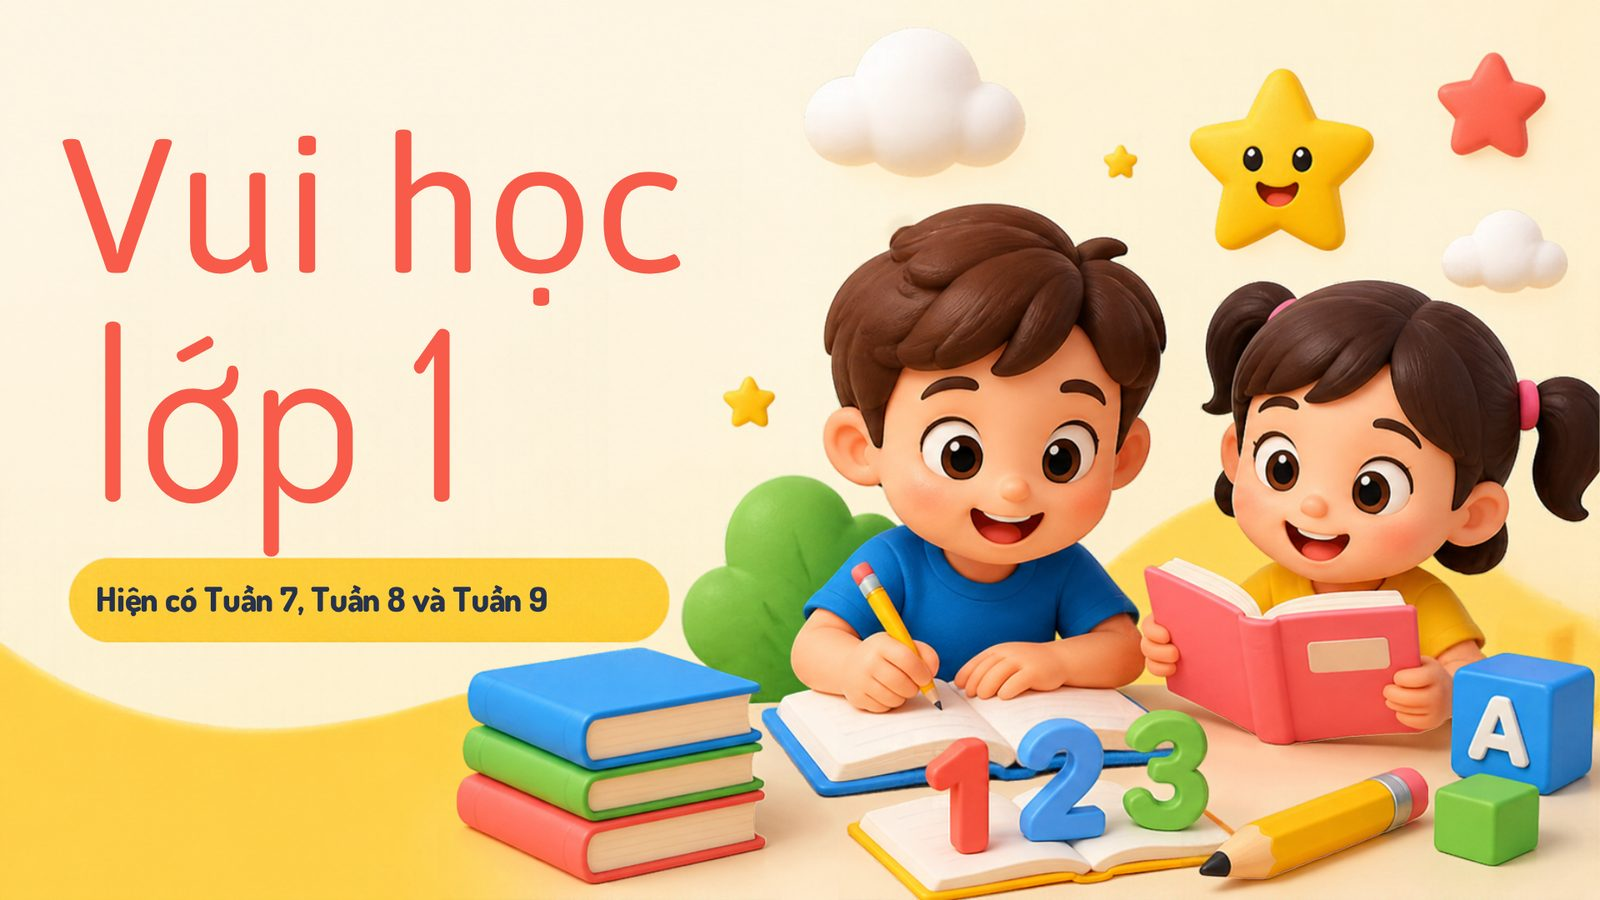
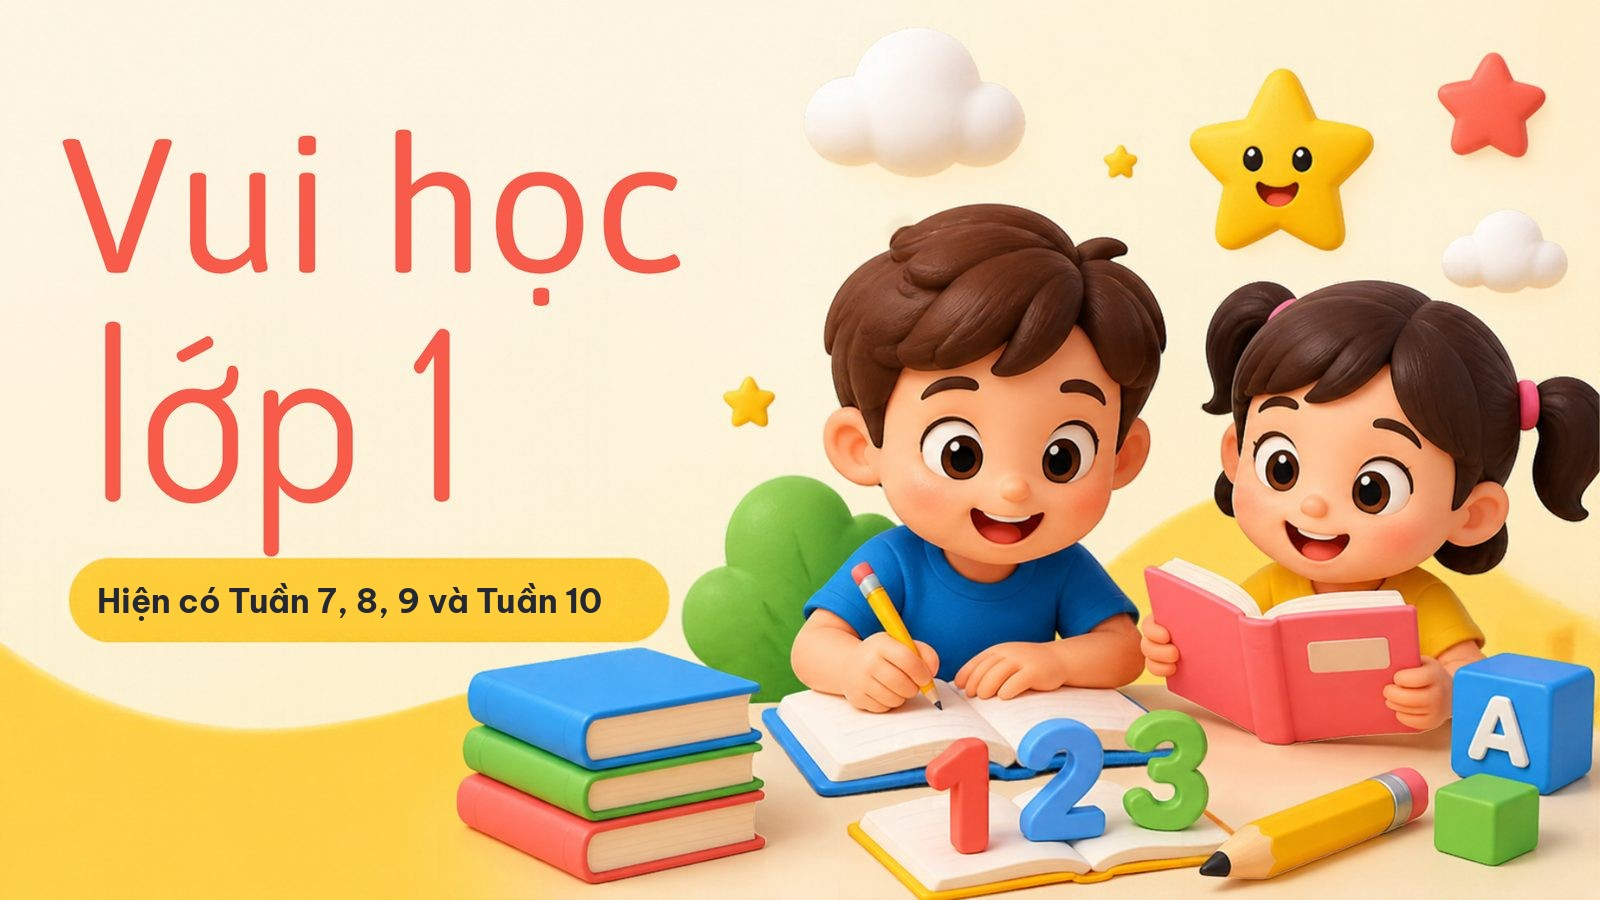
Lớp 1: add Tuần 10 Tiếng Việt lesson 'Cây gấc đỏ' (vần, đọc bài, nối, chính tả, nghe – viết), deep link #cay-gac-do, update hero to Tuần 10

Changed region(s): [[0.0625, 0.6533, 0.375, 0.6844]]

diff --git a/lop1/index.html b/lop1/index.html
@@ -92,6 +92,9 @@ rect:'<svg viewBox="0 0 200 58" width="200"><rect x="4" y="4" width="192" height
 tri:'<svg viewBox="0 0 120 100" width="140"><path d="M60 6L114 94H6z" fill="#FFD93D" stroke="#b38f00" stroke-width="4"/><line x1="33" y1="50" x2="87" y2="50" stroke="#b38f00" stroke-width="4"/></svg>',
 book:'<svg viewBox="0 0 60 60"><path d="M6 14q12-6 24 2v36q-12-8-24-2z" fill="#fff"/><path d="M54 14q-12-6-24 2v36q12-8 24-2z" fill="#f3f0ff"/><path d="M30 16v36" stroke="#9B59B6" stroke-width="2"/></svg>',
 house:'<svg viewBox="0 0 60 60"><path d="M8 28L30 8l22 20" fill="#FF6B6B"/><rect x="14" y="28" width="32" height="24" fill="#FFF6E5"/><rect x="26" y="36" width="9" height="16" fill="#9B59B6"/><path d="M48 52V20" stroke="#6BCB77" stroke-width="4"/><circle cx="48" cy="16" r="6" fill="#6BCB77"/></svg>',
+gac:'<svg viewBox="0 0 60 60"><path d="M30 12c-4-6 2-10 6-8" stroke="#7a4a1e" stroke-width="3" fill="none"/><ellipse cx="40" cy="8" rx="8" ry="4" fill="#6BCB77"/><ellipse cx="30" cy="35" rx="17" ry="22" fill="#E8412C"/><g fill="#B8261A"><circle cx="22" cy="24" r="2.2"/><circle cx="32" cy="20" r="2.2"/><circle cx="38" cy="30" r="2.2"/><circle cx="24" cy="36" r="2.2"/><circle cx="34" cy="42" r="2.2"/><circle cx="26" cy="49" r="2.2"/><circle cx="40" cy="44" r="2"/><circle cx="20" cy="45" r="2"/></g><ellipse cx="23" cy="28" rx="3" ry="6" fill="#fff" opacity=".35"/></svg>',
+inkpot:'<svg viewBox="0 0 60 60"><rect x="22" y="10" width="16" height="8" rx="2" fill="#2d2a4a"/><path d="M14 22q0-4 4-4h24q4 0 4 4v26q0 6-6 6H20q-6 0-6-6z" fill="#cfe8ff" stroke="#4D96FF" stroke-width="3"/><path d="M17 32h26v16q0 3-3 3H20q-3 0-3-3z" fill="#2B3A9C"/><path d="M46 6l-14 30" stroke="#9B59B6" stroke-width="3"/><path d="M32 36l-2 5 4-3z" fill="#2d2a4a"/></svg>',
+digger:'<svg viewBox="0 0 60 60"><rect x="6" y="44" width="34" height="9" rx="4.5" fill="#2d2a4a"/><circle cx="12" cy="48.5" r="3" fill="#888"/><circle cx="23" cy="48.5" r="3" fill="#888"/><circle cx="34" cy="48.5" r="3" fill="#888"/><rect x="8" y="30" width="28" height="13" rx="3" fill="#FFB020"/><rect x="12" y="20" width="13" height="11" rx="2" fill="#FFB020"/><rect x="15" y="22" width="8" height="7" fill="#cfe8ff"/><path d="M34 32L46 14l8 12" stroke="#E89400" stroke-width="5" fill="none" stroke-linecap="round" stroke-linejoin="round"/><path d="M50 26l8 2-3 10-9-4z" fill="#7a5a2e"/></svg>',
 mountain:'<svg viewBox="0 0 60 60"><path d="M2 52L22 18l12 18 8-10 16 26z" fill="#6BCB77"/><path d="M22 18l-6 10h12z" fill="#fff"/><path d="M8 18a6 6 0 0 1 6-8 8 8 0 0 1 14 2 5 5 0 0 1 0 8H10z" fill="#fff" opacity=".9"/></svg>'
 };
 const bear='<svg viewBox="0 0 120 120" width="120"><circle cx="30" cy="30" r="16" fill="#C68B59"/><circle cx="90" cy="30" r="16" fill="#C68B59"/><circle cx="30" cy="30" r="8" fill="#FFB6C8"/><circle cx="90" cy="30" r="8" fill="#FFB6C8"/><circle cx="60" cy="64" r="44" fill="#D9A273"/><ellipse cx="60" cy="80" rx="20" ry="15" fill="#F5DEC4"/><circle cx="44" cy="58" r="5" fill="#2d2a4a"/><circle cx="76" cy="58" r="5" fill="#2d2a4a"/><ellipse cx="60" cy="74" rx="7" ry="5" fill="#2d2a4a"/><path d="M52 84q8 7 16 0" stroke="#2d2a4a" stroke-width="3" fill="none"/><circle cx="34" cy="74" r="6" fill="#FFB6C8" opacity=".7"/><circle cx="86" cy="74" r="6" fill="#FFB6C8" opacity=".7"/></svg>';
@@ -167,6 +170,26 @@ h+=`<div class="card sec"><h2>3. Nối hình với từ ${spk('Nối hình với
 h+=`<div class="card sec"><h2>4. Điền vần ${spk('Chọn vần đúng')}</h2>`;
 [['shrimp','t…','ôm','ơm','tôm'],['sparrow','ch…','im','em','chim'],['elephant','v…','oi','ôi','voi'],['cloud','m…','ây','ay','mây']].forEach(([k,w,a,b,full])=>{h+=`<div class="row"><span class="ill">${S[k]}</span><span class="eq">${spk(full)} ${w}</span>${spk(a)}${spk(b)}${choice([a,b].sort(),a)}</div>`});
 return h+'</div>'}},
+{t:'Tiếng Việt: Cây gấc đỏ',sub:'Đọc vần, đọc bài, nối, chính tả, nghe – viết',c:'#e04848',tag:'Tuần 10',id:'cay-gac-do',ic:S.gac,build(){
+const sents=['Nhà Cúc có cây gấc quả đỏ ối.','Mỗi khi tới mùa gấc, mẹ Cúc hay nấu xôi gấc cho cả nhà.','Trẻ con hay qua nhà chỉ trỏ lên cây gấc.','Thế là Cúc nhờ bố hái cho mỗi đứa vài quả gấc đem về.','Bọn trẻ con rất vui vì có quà là quả gấc.'];
+let h=`<div class="card sec"><h2>Luyện đọc vần ${spk('Luyện đọc vần')}</h2><div class="row">`+['ac','ăc','âc','oc','ôc','uc','ưc','at','ăt','ât','ot','ôt','ơt'].map(v=>`<button class="chip" data-say="${v}">${v}</button>`).join('')+`</div><h2 style="font-size:24px;margin-top:14px">Đọc từ ${spk('Đọc từ. Nắn nót. Sữa bột. Tắc kè. Nhắc nhở. Gốc cây. Vất vả.')}</h2><div class="row">`+['nắn nót','sữa bột','tắc kè','nhắc nhở','gốc cây','vất vả'].map(v=>`<button class="chip" style="border-color:var(--gr)" data-say="${v}">${v}</button>`).join('')+`</div><p style="font-size:17px;opacity:.7">Chạm vào vần, vào từ để nghe.</p></div>`;
+h+=`<div class="card"><h2>📖 Cây gấc đỏ ${spk('Cây gấc đỏ. '+sents.join(' '))}</h2><p class="pass">`+sents.map(s=>`<span data-say="${s}">${s}</span>`).join(' ')+`</p><p style="font-size:17px;opacity:.7">Chạm vào câu để nghe.</p></div>`;
+h+=`<div class="card sec"><h2>1. Nối ${spk('Nối cho đúng với bài đọc')}</h2>`+matchBlock(['bố','mẹ Cúc','cây gấc'],['quả đỏ ối.','hái cho mỗi đứa vài quả gấc.','hay nấu xôi gấc cho cả nhà.'],{'bố':'hái cho mỗi đứa vài quả gấc.','mẹ Cúc':'hay nấu xôi gấc cho cả nhà.','cây gấc':'quả đỏ ối.'})+'</div>';
+h+=`<div class="card sec"><h2>2. Mẹ Cúc nấu gì? ${spk('Mẹ Cúc nấu gì?')}</h2><div class="row"><input id="gq2" style="flex:1;min-width:220px;text-align:left" placeholder="Em viết câu trả lời..."><button class="big" style="background:var(--gr)" id="gq2b">Kiểm tra</button></div><p>Hoặc chạm chọn:</p><div id="gq2c">`+['canh cá','xôi gấc','chè đỗ'].map(o=>spk(o)).join(' ')+choice(['canh cá','xôi gấc','chè đỗ'],'xôi gấc')+`</div></div>`;
+h+=`<div class="card sec"><h2>3. Chọn từ viết đúng chính tả ${spk('Nhìn tranh, chọn từ viết đúng chính tả')}</h2>`;
+const emo=e=>`<span style="font-size:72px;line-height:1">${e}</span>`;
+[[emo('🏋'),['lực sĩ','nực sĩ'],'lực sĩ'],[emo('🤸'),['thế dục','thể dục'],'thể dục'],[S.inkpot,['lọ mực','lọ múc'],'lọ mực'],[S.digger,['máy xú','máy xúc'],'máy xúc']].forEach(([ic,opts,a])=>{h+=`<div class="row" style="background:#fff5f3;border-radius:20px;padding:10px"><span class="ill" style="width:100px;display:inline-flex;justify-content:center">${ic}</span>${spk(a)}${choice(opts,a)}</div>`});
+const nv=['Cây gấc đỏ.','Nhà Cúc có cây gấc','quả đỏ ối.','Mỗi khi tới mùa gấc,','mẹ Cúc hay nấu xôi gấc','cho cả nhà.','Trẻ con hay qua nhà','chỉ trỏ lên cây gấc.'];
+h+=`</div><div class="card sec"><h2>4. Nghe – viết ${spk('Nghe viết')}</h2><p>Phụ huynh đọc cho bé viết vào vở tựa bài <b>“Cây gấc đỏ”</b> và đoạn từ đầu đến <b>“chỉ trỏ lên cây gấc.”</b> Hoặc bấm nút để máy đọc chậm từng cụm từ.</p><p class="pass" id="gnv">`+nv.map(s=>`<span>${s}</span>`).join(' ')+`</p><div class="row"><button class="big" id="gnvb" style="background:var(--pu)">▶ Nghe đọc chậm</button><button class="chip" id="gnvs">⏹ Dừng</button></div><textarea style="width:100%;min-height:120px;font-size:24px;font-family:inherit;border:4px solid #e3d9f5;border-radius:18px;padding:10px" placeholder="Em viết ở đây (không bắt buộc), nhớ viết vào vở nhé!"></textarea></div>`;
+return h},after(){
+const q=document.getElementById('gq2'),b=document.getElementById('gq2b');
+const flat=v=>norm(v).normalize('NFD').replace(/[\u0300-\u036f]/g,'').replace(/đ/g,'d');
+b.onclick=()=>{const v=flat(q.value);if(/xoi\s*gac/.test(v)){q.classList.remove('bad');q.classList.add('ok');const g=document.querySelector('#gq2c [data-grp]');if(g&&!g.dataset.d){g.dataset.d=1;const ok=g.querySelector('[data-ok="1"]');if(ok)ok.classList.add('done');good();mark()}else good()}else{q.classList.add('bad');bad();setTimeout(()=>q.classList.remove('bad'),900)}};
+q.onkeydown=e=>{if(e.key==='Enter')b.click()};
+let run=0;
+document.getElementById('gnvs').onclick=()=>{run++;if('speechSynthesis'in window)speechSynthesis.cancel();document.querySelectorAll('#gnv span').forEach(s=>s.classList.remove('hl'))};
+document.getElementById('gnvb').onclick=()=>{const my=++run;const sp=[...document.querySelectorAll('#gnv span')];let i=0;const nx=()=>{if(my!==run)return;sp.forEach(s=>s.classList.remove('hl'));if(i>=sp.length)return;sp[i].classList.add('hl');say(sp[i].textContent,0.6,()=>{i++;setTimeout(nx,2500)})};nx()};
+}},
 {t:'Tiếng Việt: Chữ Ph, Qu, V, X, Y',sub:'Tuần 7 – Luyện đọc chữ',c:'#7c4dff',tag:'Tuần 7',ic:'<div style="font-size:64px;line-height:1;text-align:center">🔤</div>',build(){
 let h=`<div class="card sec"><h2>1. Luyện đọc chữ ${spk('Luyện đọc chữ. Phờ, quờ, vờ, xờ, i dài')}</h2><div class="grid" style="grid-template-columns:repeat(auto-fit,minmax(140px,1fr))">`;
 [['Ph','phờ'],['ph','phờ'],['Qu','quờ'],['qu','quờ'],['V','vờ'],['v','vờ'],['X','xờ'],['x','xờ'],['Y','i dài'],['y','i dài']].forEach(([ch,name])=>{h+=`<div class="eq" style="text-align:center;font-size:42px">${spk(name+'. '+ch)} ${ch}</div>`});
@@ -194,7 +217,7 @@ function inferMon(l){return /^Toán/.test(l.t)?'toan':'tv'}
 function cardHTML(l,i){return `<div class="lc" style="background:${l.c}" data-go="${i}">${spk((l.tag||('Bài '+(i+1)))+'. '+l.t)}<span class="ill" style="background:rgba(255,255,255,.85);border-radius:24px;width:110px;padding:10px">${l.ic}</span><div><div style="opacity:.9">${l.tag||('Bài '+(i+1))}</div><h3>${l.t}</h3><div style="font-size:18px">${l.sub}</div></div></div>`}
 function home(){speakEn=false;location.hash='';
 const locked=sessionStorage.getItem('vh1en')!=='1';
-app.innerHTML=`<div class="hero"><img src="ui/hero.jpg" alt="Vui học lớp 1. Hiện có Tuần 7, Tuần 8 và Tuần 9.">${spk('Chào em! Hiện có Tuần 7, Tuần 8 và Tuần 9. Bé chọn môn Toán, Tiếng Việt, hoặc English Ms. Huyền nhé!')}</div>
+app.innerHTML=`<div class="hero"><img src="ui/hero.jpg?v=10" alt="Vui học lớp 1. Hiện có Tuần 7, Tuần 8, Tuần 9 và Tuần 10.">${spk('Chào em! Hiện có Tuần 7, Tuần 8, Tuần 9 và Tuần 10. Bé chọn môn Toán, Tiếng Việt, hoặc English Ms. Huyền nhé!')}</div>
 <div class="grid" style="margin-top:22px">
 <div class="lc vis" data-go="toan" role="button" aria-label="Toán. Ôn từng tuần, có hình và chạm để nghe">${spk('Toán')}<img src="ui/toan.jpg" alt=""></div>
 <div class="lc vis" data-go="tv" role="button" aria-label="Tiếng Việt. Luyện chữ, luyện vần và đọc bài">${spk('Tiếng Việt')}<img src="ui/tv.jpg" alt=""></div>
@@ -206,12 +229,14 @@ const title=mon==='toan'?'Toán':'Tiếng Việt';
 const items=L.map((l,i)=>({l,i})).filter(x=>inferMon(x.l)===mon);
 const w7=items.filter(x=>x.l.tag==='Tuần 7');
 const extra=items.filter(x=>x.l.tag==='Tuần 9');
+const w10=items.filter(x=>x.l.tag==='Tuần 10');
 const w8=mon==='toan'?{t:'Số và phép cộng trong phạm vi 10',s:'Đếm, tính, so sánh và thử thách 10 câu'}:{t:'Vần an, ăn, ân đến am, ăm, âm',s:'Luyện vần, đọc từ, nghe chọn, điền từ'};
 const w8bg=mon==='toan'?'#ff9f43':'#7c4dff';
 app.innerHTML=`<div class="top"><button class="back" id="bk">⬅ Về nhà</button><h1 style="color:${mon==='toan'?'var(--co)':'var(--gr)'};margin:0">${title} ${spk(title)}</h1></div>
 <h2 style="margin:24px 0 12px;font-size:26px">📘 Tuần 7</h2><div class="grid">`+w7.map(x=>cardHTML(x.l,x.i)).join('')+`</div>
 <h2 style="margin:24px 0 12px;font-size:26px">📗 Tuần 8</h2><div class="grid"><div class="lc" style="background:${w8bg}" id="go8">${spk('Tuần 8. '+w8.t)}<span class="ill" style="background:rgba(255,255,255,.85);border-radius:24px;width:110px;padding:10px;display:flex;align-items:center;justify-content:center;font-size:64px">📗</span><div><div style="opacity:.9">Tuần 8</div><h3>${w8.t}</h3><div style="font-size:18px">${w8.s}</div></div></div></div>
-`+(extra.length?`<h2 style="margin:24px 0 12px;font-size:26px">📙 Tuần 9</h2><div class="grid">`+extra.map(x=>cardHTML(x.l,x.i)).join('')+`</div>`:'');
+`+(extra.length?`<h2 style="margin:24px 0 12px;font-size:26px">📙 Tuần 9</h2><div class="grid">`+extra.map(x=>cardHTML(x.l,x.i)).join('')+`</div>`:'')
++(w10.length?`<h2 style="margin:24px 0 12px;font-size:26px">📕 Tuần 10</h2><div class="grid">`+w10.map(x=>cardHTML(x.l,x.i)).join('')+`</div>`:'');
 document.getElementById('bk').onclick=home;
 document.querySelectorAll('[data-go]').forEach(c=>c.onclick=()=>lesson(+c.dataset.go));
 document.getElementById('go8').onclick=()=>location.href='tuan8.html?mon='+mon}
@@ -254,7 +279,7 @@ app.innerHTML=`<div class="top"><button class="back" id="bk">⬅ Các tuần</bu
 document.getElementById('bk').onclick=englishHome;
 app.querySelectorAll('[data-ch]').forEach(b=>b.onclick=()=>{const g=b.closest('[data-grp]');if(!g||g.dataset.d)return;if(b.dataset.ok==='1'){b.classList.add('done');g.dataset.d=1;good();mark()}else{b.classList.add('wrong');bad();setTimeout(()=>b.classList.remove('wrong'),900)}});
 scrollTo(0,0)}
-function route(){const h=location.hash.replace(/^#/,'');if(h==='toan'||h==='tv')subject(h);else if(h==='english')englishOpen();else home()}
+function route(){const h=location.hash.replace(/^#/,'');const li=L.findIndex(l=>l.id&&l.id===h);if(li>=0){lesson(li);return}if(h==='toan'||h==='tv')subject(h);else if(h==='english')englishOpen();else home()}
 window.addEventListener('hashchange',route);
 function lesson(i){const l=L[i];total=0;done=0;const body=l.build();
 app.innerHTML=`<div class="top"><button class="back" id="bk">⬅ Về nhà</button><div class="prog"><div></div></div></div><h1 style="color:${l.c}">${l.tag||('Bài '+(i+1))}: ${l.t} ${spk(l.t)}</h1>`+body;scrollTo(0,0);
